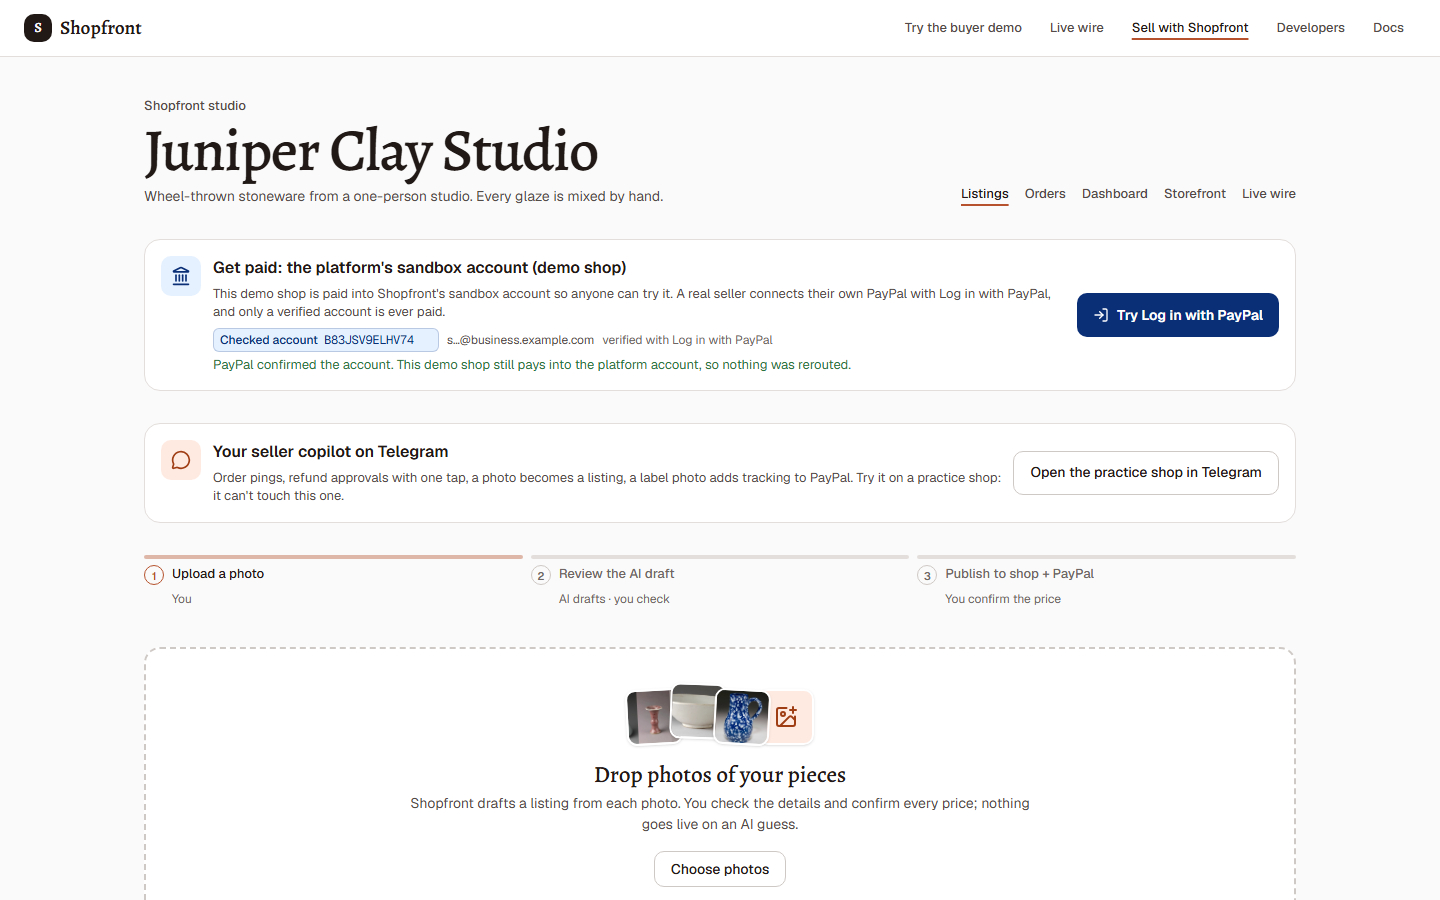
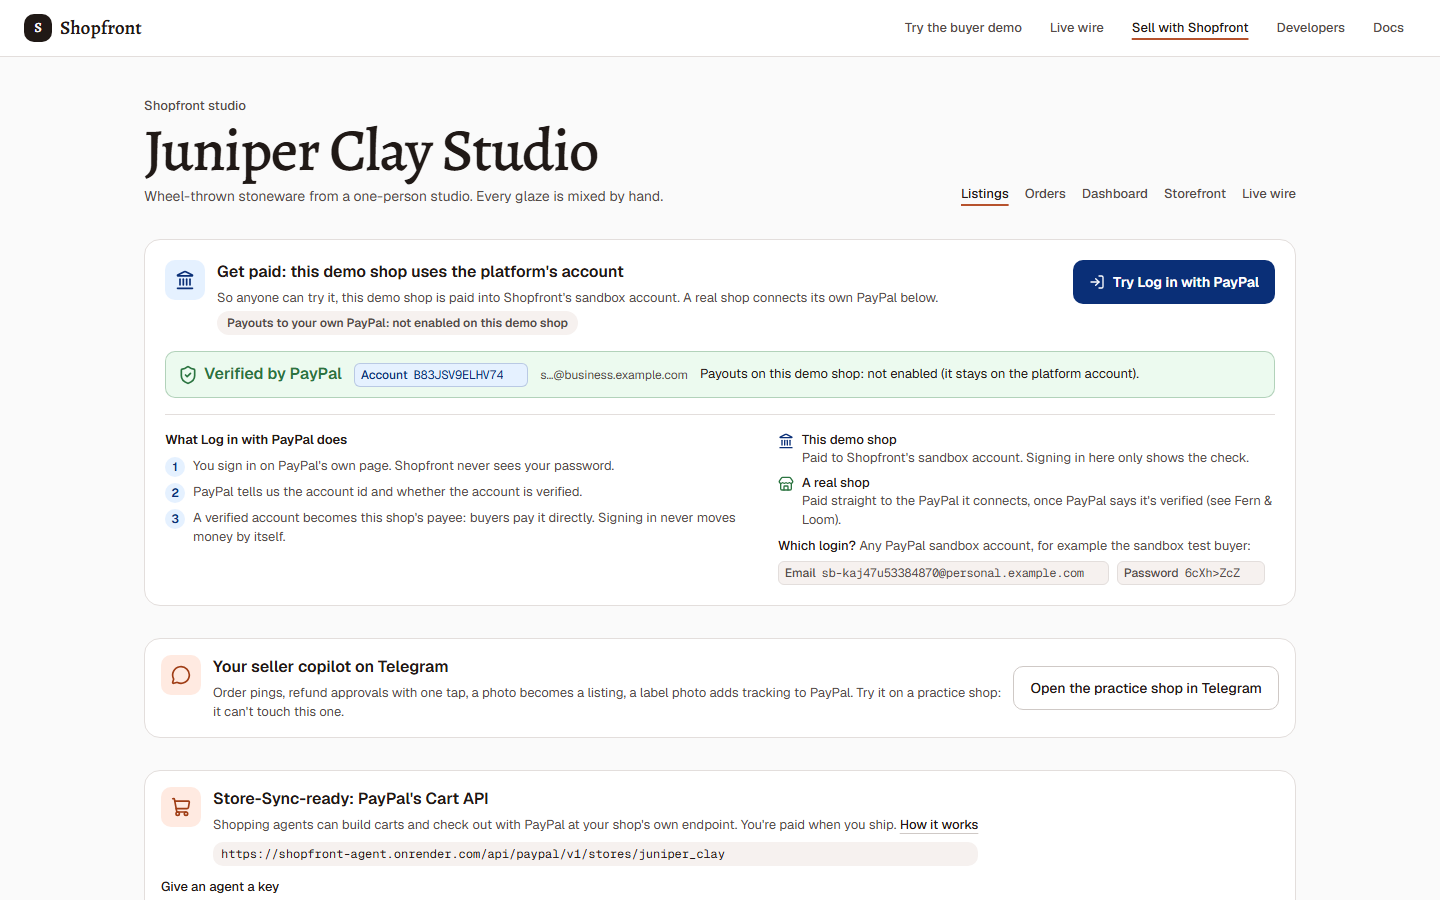
docs: review v2 fixes #2 #6 #8 results (review2-checks 5/5, lane + connect regression), fix status table

diff --git a/docs/review-pack/FEEDBACK-V2.md b/docs/review-pack/FEEDBACK-V2.md
@@ -30,3 +30,15 @@ Ranked by what a judge meets first and how much it costs. 👁 = a judge sees it
 | 8 | **/shop live panel balance** when there are few events (compact height or a short empty-state explainer) | Step 2 | 👁 minor | 0.1 day |
 
 **Total:** about 2.6 days, well inside the freeze (end of Nov 5). Steps 3 (hack card), 4 (live), 5 (Studio) and 8 (mobile) need no changes.
+
+## Fix status (D-096, D-097)
+
+| Rank | Fix | Status |
+|---|---|---|
+| 1 | /shop checkout prominence | **Done 2026-10-18** (`shop-checks` 6/6: checkout in view at 1440/1920/phone, Your turn, compact cards) |
+| 2 | /shop image and search accuracy | **Done 2026-10-18** (`review2-checks` R2a–R2c: weighted search with a relevance cut; the mug listing renamed "Blue crackle mug" to match a real CC0 mug photo) |
+| 6 | Get paid onboarding clarity | **Done 2026-10-18** (R6 + `connect-checks` C2) |
+| 8 | /shop live panel balance | **Done 2026-10-18** (R8: a 4-lane guide while the wire is quiet) |
+| 4, 5 | Dashboard width, AI change made visible | Folded into Phase AG (D-097) |
+| 3, 7 | Landing prominence, Telegram polish | Scheduled Oct 29 |
+
